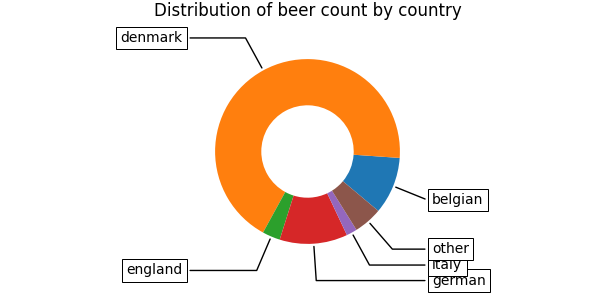
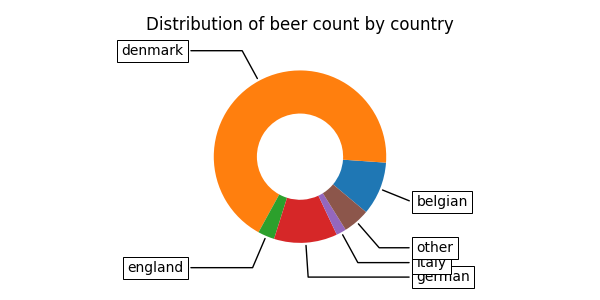
...

diff --git a/projectBeer/templates/layout.html b/projectBeer/templates/layout.html
@@ -1,6 +1,5 @@
 <!DOCTYPE html>
 <html>
-
 <head>
     <!-- Required meta tags -->
     <meta charset="utf-8">
@@ -10,6 +9,7 @@
     <link rel="stylesheet" href="https://maxcdn.bootstrapcdn.com/bootstrap/4.0.0/css/bootstrap.min.css" integrity="sha384-Gn5384xqQ1aoWXA+058RXPxPg6fy4IWvTNh0E263XmFcJlSAwiGgFAW/dAiS6JXm" crossorigin="anonymous">
     <link rel="stylesheet" type="text/css" href="{{ url_for('static', filename='main.css') }}">
     <link rel="stylesheet" type="text/css" href="{{ url_for('static', filename='brew.css') }}">
+    <link rel="stylesheet" type="text/css" href="{{ url_for('static', filename='home.css') }}">
 
     <!-- jquery -->
     <link rel="stylesheet" href="//code.jquery.com/ui/1.13.2/themes/base/jquery-ui.css">

diff --git a/projectBeer/static/main.css b/projectBeer/static/main.css
@@ -5,19 +5,24 @@ body {
 }
 
 h1, h2, h3, h4, h5, h6 {
-    color: #444444;
+    color: #928f8f;
 }
 
 .bg-steel {
-    background-color: #5f788a;
+    background-color: #31d31f;
+}
+
+.site-header .navbar{
+    border-bottom: solid;
 }
 
 .site-header .navbar-nav .nav-link {
-    color: #cbd5db;
+    color: #ffffff;
+    font-size: 30pt;
 }
 
 .site-header .navbar-nav .nav-link:hover {
-    color: #ffffff;
+    color: #090909;
 }
 
 .site-header .navbar-nav .nav-link.active {

diff --git a/projectBeer/templates/home.html b/projectBeer/templates/home.html
@@ -1,6 +1,11 @@
 {% extends "layout.html" %}
 {% block content %}
-  <div class="item1">
-    <img src="static/assets/ER.jpg" width="100%" height="530">
+  <div class = "main">
+    <div class = "col_">   
+      <img src="static/plots/avgByCoun.png" class="avgBy" width="100%" height="80%" alt="">
+    </div>
+    <div class = "col_">  
+      <img src="static/plots/avgByBrew.png" class="avgBy" width="100%" height="80%" alt="">
+    </div>
   </div>
 {% endblock content %}

diff --git a/projectBeer/static/home.css b/projectBeer/static/home.css
@@ -1,0 +1,17 @@
+.main {
+    border: 1px solid #000000;
+    height: 600px;
+}
+
+.col_ {
+    float: left;
+    width: 50%;
+    padding: 5px;
+  }
+
+
+/*.avgBy{
+    display: block;
+    margin-left: 0;
+    margin-right: auto;
+} */

diff --git a/projectBeer/app.py b/projectBeer/app.py
@@ -11,6 +11,7 @@ import re
 import pandas as pd
 import numpy as np
 import matplotlib.pyplot as plt
+from matplotlib import rcParams
 
 #scheduler
 import time
@@ -29,6 +30,7 @@ db = "dbname='postgres' user='postgres' host='127.0.0.1' password = 'password'"
 
 
 ############### ---------- plots ---------- ###############
+rcParams.update({'figure.autolayout': True})
 ''' Turns Beer table into dataframe '''
 def createDataframe():
     conn = psycopg2.connect(db)
@@ -42,8 +44,8 @@ def createDataframe():
 def avgByCoun():
     df = createDataframe()
     keepers = df['country'].value_counts().reset_index()
-    keepers = keepers[keepers['count'] > 3]
-    keepers = list(keepers.pop('country'))
+    keepers = keepers[keepers['country'] > 3]
+    keepers = list(keepers.pop('index'))
 
     df_avgByCoun = df.groupby(['country'])['rating'].mean().reset_index()
     df_avgByCoun = df_avgByCoun[df_avgByCoun['country'].isin(keepers)]
@@ -66,7 +68,7 @@ def avgByBrew():
     print(keepers)
     for elm in keepers: print(elm)
     keepers = keepers[keepers['brewer'] > 2]
-    keepers = list(keepers.pop('brewer'))
+    keepers = list(keepers.pop('index'))
     keepers.remove('na')
 
     df_avgByCoun = df.groupby(['brewer'])['rating'].mean().reset_index()
@@ -88,11 +90,12 @@ def donoutChart():
     fig, ax = plt.subplots(figsize=(6, 3), subplot_kw=dict(aspect="equal"))
     data = createDataframe()
     data = data['country'].value_counts().reset_index()
-    data = data.sort_values(by=['count'], ascending=False)
-    data.loc[data['count'] < 3, 'country'] = "other"
-    data = data.groupby(['country'])['count'].sum().reset_index()
-    labels = list(data.pop('country'))
-    count = list(data.pop('count'))
+    data = data.sort_values(by=['country'], ascending=False)
+    data.loc[data['country'] < 3, 'index'] = "other"
+    data = data.groupby(['index'])['country'].sum().reset_index()
+    labels = list(data.pop('index'))
+    count = list(data.pop('country'))
+    
     wedges, texts = ax.pie(count, wedgeprops=dict(width=0.5), startangle=-40)
 
     bbox_props = dict(boxstyle="square,pad=0.3", fc="w", ec="k", lw=0.72)
@@ -260,9 +263,9 @@ def logout():
 ############### ---------- Run ---------- ###############
 if __name__ == "__main__":
     #Function to run on startup
-    #avgByBrew()
-    #avgByCoun()
-    #donoutChart()
+    avgByCoun()
+    avgByBrew()
+    donoutChart()
     app.run(debug=True)
 
 
